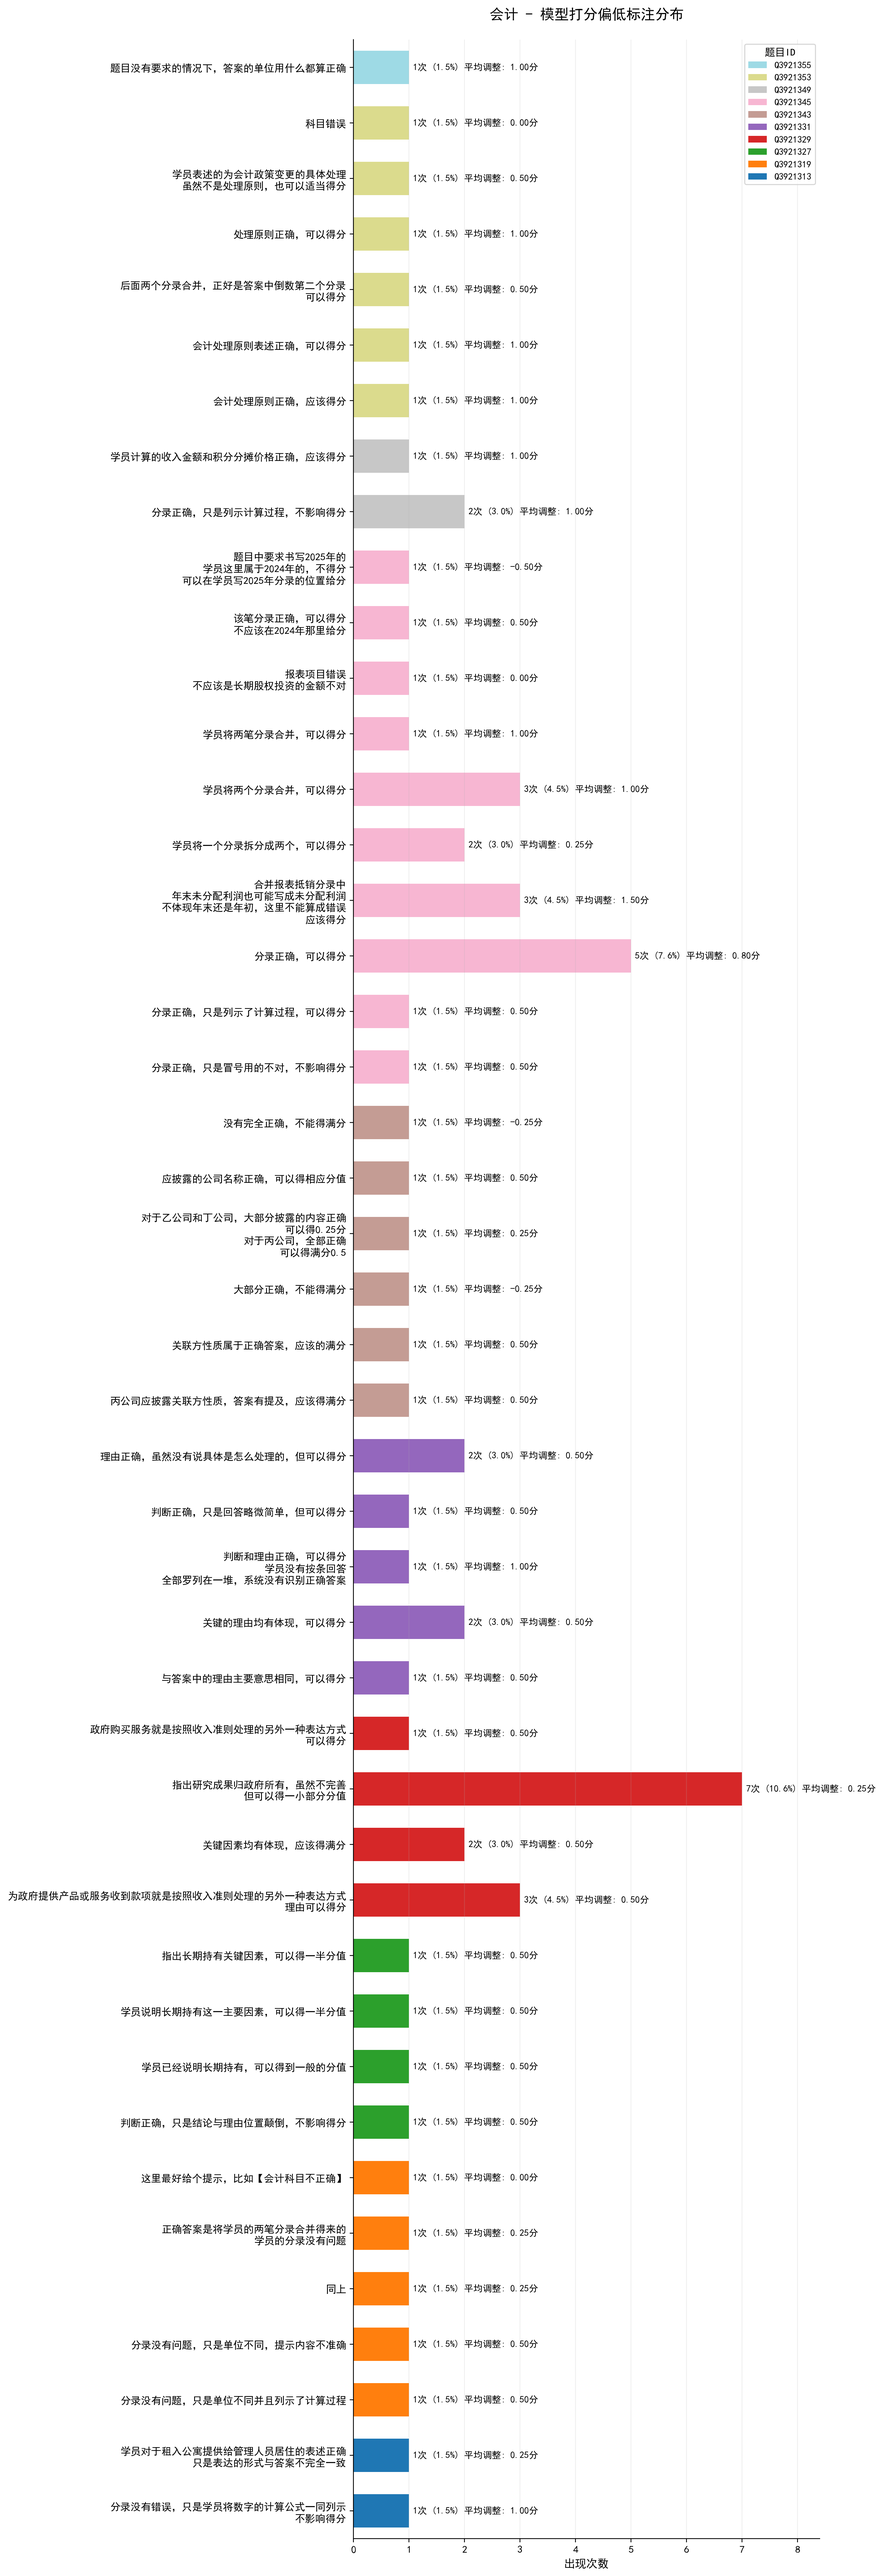
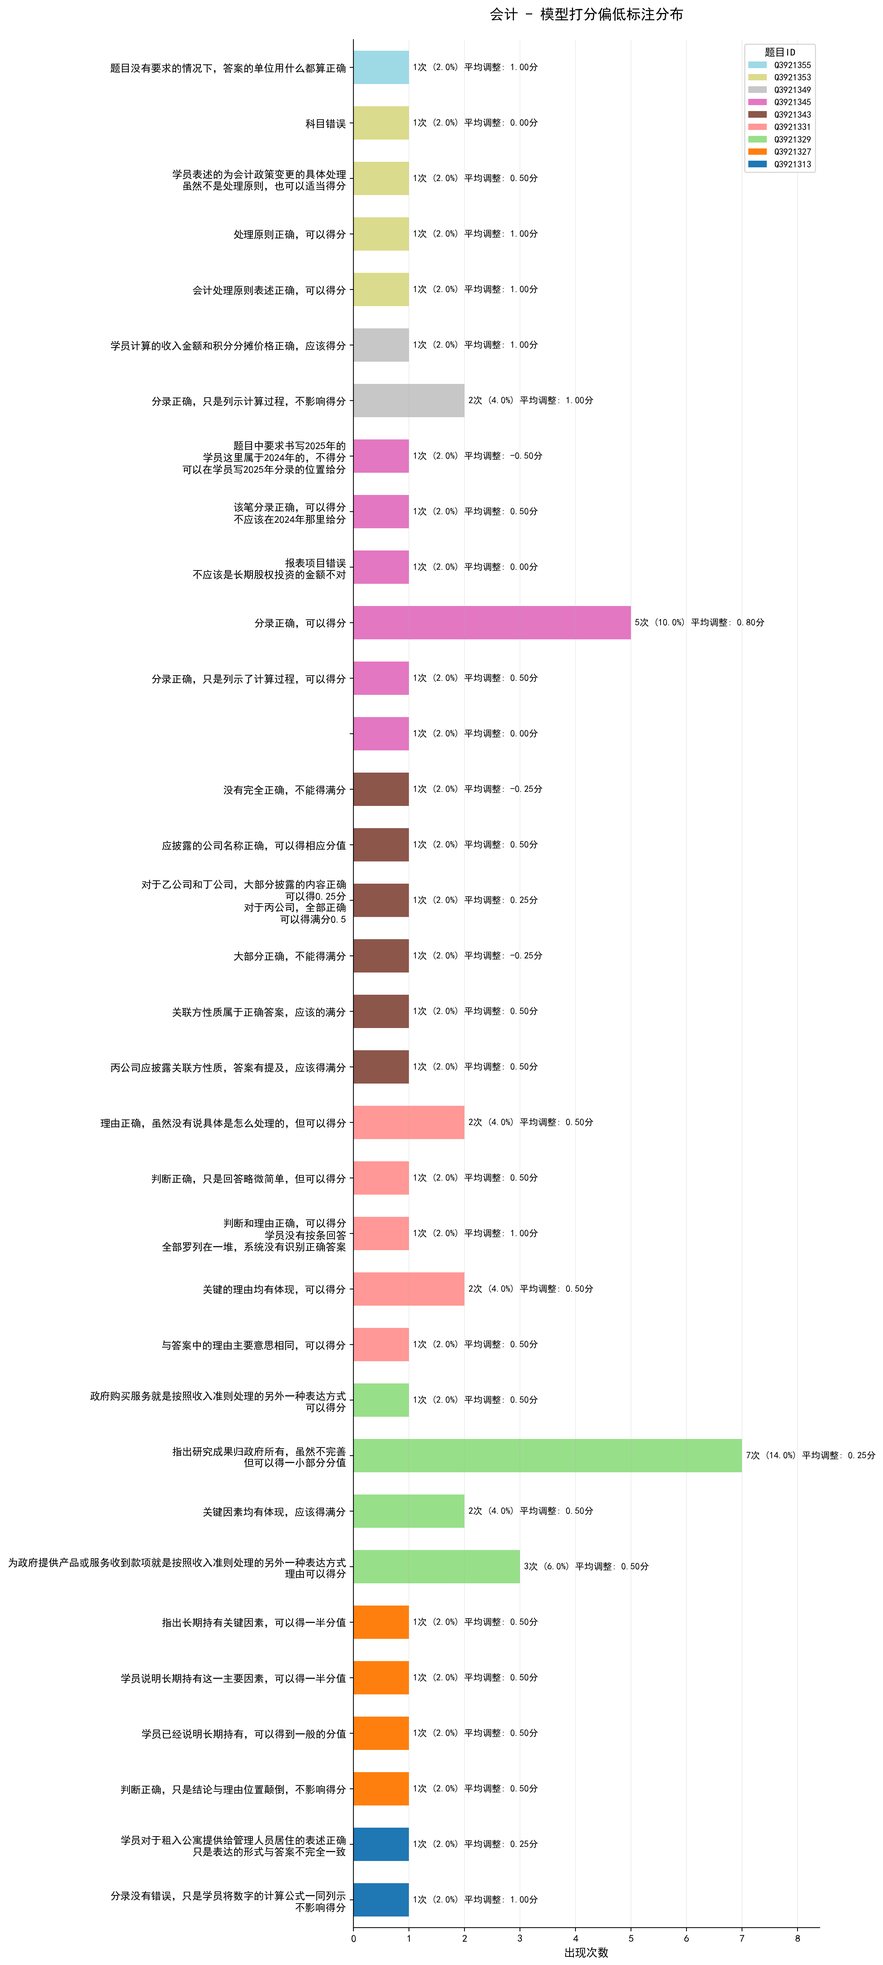
update  data strategy

diff --git a/report_output/report.html b/report_output/report.html
@@ -1521,7 +1521,7 @@
     <div class="table-section">
         <p>该部分展示各科目模型评分与专家评分的一致性分析结果。其中相关指标释义如下：</p>
          <p class="indent-text">
-            <b>精确一致率</b>：模型评分与专家评分<b>分差为0</b>的比例。<br>
+            <b>精准一致率</b>：模型评分与专家评分<b>分差为0</b>的比例。<br>
             皮尔逊相关系数：衡量模型打分与专家打分在整体趋势上的一致性。通常，系数大于0.6表示强相关，小于0.3表示弱/不相关；<br>
             95%的置信区间：反应了估计的相关系数的不确定性，区间越宽越不确定。比如区间结果为[0.3,0.7]可以理解成：我们有比较强的信心（95%的信心）认为，模型和专家打分的真实一致性，不会比0.3更差，也不会比0.7更好；<br>
             平均绝对误差：衡量模型打分与专家打分在数值上的平均偏差（即相对专家评分来说，模型平均打偏了多少分）。
@@ -1539,6 +1539,14 @@
     
         <div class="table-section">
             <h3>总体一致性评估结果</h3>
+            <div class="table-description">
+                <p>下述准确率是经过了一定策略调整后统计的结果，主要调整内容有：</p>
+                <ul>
+                    <li>标注内容关键词筛选：如果该条记录内老师的标注内容出现了<strong> ['有错字', '过程分', '列式正确，计算结果错误', '要求列出计算过程', '不写也是正确的', '严格', '合并', '拆分']等任一字样，且两者分差不超过0.5分</strong>，该条数据算我们判分无误；</li>
+                    <li>经济法中模型判0分，老师给了1分的数据算模型判分正确；</li>
+                    <li>注：下述经济法中两个相邻一致率的分差为±0.5、±1。</li>
+                </ul>
+            </div>
             
     <style>
         th, td { text-align: center; padding: 6px; }
@@ -1548,7 +1556,7 @@
     </style>
     <table id="overall-table">
         <thead>
-            <tr><th>科目名称</th><th>样本量</th><th>精确一致率</th><th>相邻一致率[±0.25]</th><th>相邻一致率[±0.5]</th><th>模型偏高比例</th><th>模型偏低比例</th><th>皮尔逊相关系数</th><th>95%置信区间</th><th>平均绝对误差</th></tr>
+            <tr><th>科目名称</th><th>样本量</th><th>精准一致率</th><th>相邻一致率[±0.25]</th><th>相邻一致率[±0.5]</th><th>模型偏高比例</th><th>模型偏低比例</th><th>皮尔逊相关系数</th><th>95%置信区间</th><th>平均绝对误差</th></tr>
         </thead>
         <tbody>
     
@@ -1561,7 +1569,7 @@
             </tr>
         
             <tr class="subject-end" data-subject="经济法">
-                <td>经济法</td><td>120</td><td>81.67%</td><td>81.67%</td><td>81.67%</td><td>16.67%</td><td>1.67%</td><td>0.800</td><td>[0.725, 0.857]</td><td>0.267</td>
+                <td>经济法</td><td>120</td><td>81.67%</td><td>81.67%</td><td>91.67%</td><td>16.67%</td><td>1.67%</td><td>0.800</td><td>[0.725, 0.857]</td><td>0.267</td>
             </tr>
         
             <tr class="subject-end" data-subject="财管">
@@ -1569,11 +1577,81 @@
             </tr>
         
             <tr class="subject-end" data-subject="会计">
-                <td>会计</td><td>182</td><td>71.43%</td><td>79.67%</td><td>89.01%</td><td>4.40%</td><td>24.18%</td><td>0.883</td><td>[0.846, 0.912]</td><td>0.229</td>
+                <td>会计</td><td>182</td><td>75.27%</td><td>83.52%</td><td>92.31%</td><td>4.40%</td><td>20.33%</td><td>0.931</td><td>[0.908, 0.948]</td><td>0.161</td>
             </tr>
         
             <tr class="subject-end" data-subject="战略">
                 <td>战略</td><td>30</td><td>30.00%</td><td>50.00%</td><td>66.67%</td><td>40.00%</td><td>30.00%</td><td>0.622</td><td>[0.337, 0.802]</td><td>0.600</td>
+            </tr>
+        
+            <tr class="subject-end" data-subject="总计">
+                <td>总计</td><td>692</td><td>75.43%</td><td>80.35%</td><td>92.49%</td><td>12.86%</td><td>11.71%</td><td>0.863</td><td>-</td><td>0.189</td>
+            </tr>
+        
+        </tbody>
+    </table>
+    
+        </div>
+        
+        <div class="table-section">
+            <h3>得分点层面一致性评估结果</h3>
+            <div class="table-description">
+                <ul>
+                    <li><strong>评分版本说明[修正指的是将某得分点的专家评分调整为与模型评分一致]</strong>：
+                        <ul>
+                            <li><strong>raw</strong>：专家原始评分</li>
+                            <li><strong>1</strong>：修正标注内容包含指定关键词的专家得分点评分</li>
+                            <li><strong>2</strong>：在1的基础上，根据策略（模型和专家均给了分值且两者分差小于0.5）修正专家得分点评分</li>
+                        </ul>
+                    </li>
+                    <li><strong>指标定义</strong>：
+                        <ul>
+                            <li><strong>得分点精准一致率</strong>：从得分点层面统计分差为0的比例</li>
+                            <li><strong>得分点命中率</strong>：先计算每条记录的得分点命中率（该题中所有得分点中分差为0的得分点占比），然后计算所有记录的得分点命中率均值</li>
+                        </ul>
+                    </li>
+                    <li><strong>备注</strong>：经验证发现另一种策略（修正专家与模型分差小于得分点分值一半）的数据结果没有固定0.5分的好</li>
+                </ul>
+            </div>
+            
+    <style>
+        th, td { text-align: center; padding: 6px; }
+        th { border-bottom: 2px solid black; }
+        .subject-end td { border-bottom: 2px solid #333; }  /* 科目分组的最后一行加粗下边框 */
+        table { border-collapse: collapse; width: 100%; margin-top: 10px; }
+    </style>
+    <table id="point-overall-table">
+        <thead>
+            <tr><th>科目名称</th><th>小题数量</th><th>得分点总数</th><th>得分点精准一致率raw</th><th>得分点精准一致率1</th><th>得分点精准一致率2</th><th>得分点命中率raw</th><th>得分点命中率1</th><th>得分点命中率2</th></tr>
+        </thead>
+        <tbody>
+    
+            <tr class="subject-end" data-subject="审计">
+                <td>审计</td><td>4</td><td>632</td><td>91.93%</td><td>92.88%</td><td>94.15%</td><td>92.32%</td><td>93.45%</td><td>94.62%</td>
+            </tr>
+        
+            <tr class="subject-end" data-subject="税法">
+                <td>税法</td><td>6</td><td>208</td><td>82.69%</td><td>85.10%</td><td>85.10%</td><td>79.97%</td><td>83.61%</td><td>83.61%</td>
+            </tr>
+        
+            <tr class="subject-end" data-subject="经济法">
+                <td>经济法</td><td>10</td><td>210</td><td>88.57%</td><td>88.57%</td><td>88.57%</td><td>83.75%</td><td>83.75%</td><td>83.75%</td>
+            </tr>
+        
+            <tr class="subject-end" data-subject="财管">
+                <td>财管</td><td>9</td><td>828</td><td>88.65%</td><td>93.48%</td><td>94.08%</td><td>84.90%</td><td>88.10%</td><td>88.94%</td>
+            </tr>
+        
+            <tr class="subject-end" data-subject="会计">
+                <td>会计</td><td>14</td><td>433</td><td>90.07%</td><td>90.07%</td><td>91.92%</td><td>89.94%</td><td>89.94%</td><td>92.22%</td>
+            </tr>
+        
+            <tr class="subject-end" data-subject="战略">
+                <td>战略</td><td>3</td><td>189</td><td>60.32%</td><td>60.32%</td><td>79.37%</td><td>60.01%</td><td>60.01%</td><td>79.66%</td>
+            </tr>
+        
+            <tr class="subject-end" data-subject="总计">
+                <td>总计</td><td>46</td><td>2500</td><td>87.08%</td><td>89.12%</td><td>91.40%</td><td>84.56%</td><td>85.76%</td><td>88.00%</td>
             </tr>
         
         </tbody>
@@ -1681,7 +1759,7 @@
             </tr>
         
             <tr class="" data-subject="会计">
-                <td></td><td>分录</td><td>19</td><td>52.63%</td><td>52.63%</td><td>68.42%</td><td>0.00%</td><td>47.37%</td><td>0.816</td>
+                <td></td><td>分录</td><td>19</td><td>84.21%</td><td>84.21%</td><td>94.74%</td><td>0.00%</td><td>15.79%</td><td>0.237</td>
             </tr>
         
             <tr class="" data-subject="会计">
@@ -1697,7 +1775,7 @@
             </tr>
         
             <tr class="" data-subject="会计">
-                <td></td><td>计算+文本+分录</td><td>21</td><td>66.67%</td><td>76.19%</td><td>80.95%</td><td>4.76%</td><td>28.57%</td><td>0.262</td>
+                <td></td><td>计算+文本+分录</td><td>21</td><td>71.43%</td><td>80.95%</td><td>85.71%</td><td>4.76%</td><td>23.81%</td><td>0.190</td>
             </tr>
         
             <tr class="" data-subject="会计">
@@ -1785,8 +1863,8 @@
       <td>124 (68.1%)</td>
       <td>58 (31.9%)</td>
       <td>8 (13.8%)</td>
-      <td>44 (75.9%)</td>
-      <td>6 (10.3%)</td>
+      <td>37 (63.8%)</td>
+      <td>13 (22.4%)</td>
     </tr>
     <tr>
       <td>战略</td>
@@ -1971,7 +2049,7 @@
                 <div class="barchart-item" data-subject="会计" data-category="模型打分偏低">
                     <div class="chart-section">
                         <h5>会计 - 模型打分偏低</h5>
-                        <p class="chart-stats">记录数: 44 | 标注数: 66</p>
+                        <p class="chart-stats">记录数: 37 | 标注数: 50</p>
                         <div class="chart-scroll-container">
                             <img src="会计_low_model_smart.png" alt="会计模型打分偏低标注分布" 
                                  class="scrollable-chart">
@@ -1982,7 +2060,7 @@
                 <div class="barchart-item" data-subject="会计" data-category="打分一致">
                     <div class="chart-section">
                         <h5>会计 - 打分一致</h5>
-                        <p class="chart-stats">记录数: 6 | 标注数: 11</p>
+                        <p class="chart-stats">记录数: 13 | 标注数: 27</p>
                         <div class="chart-scroll-container">
                             <img src="会计_consistent_smart.png" alt="会计打分一致标注分布" 
                                  class="scrollable-chart">
@@ -2075,6 +2153,7 @@ $(document).ready(function () {
         // 定义所有需要筛选的表格ID
         const tableIds = [
             'overall-table', 
+            'point-overall-table',
             'question-type-table', 
             'large-score-table', 
             'small-score-table'
